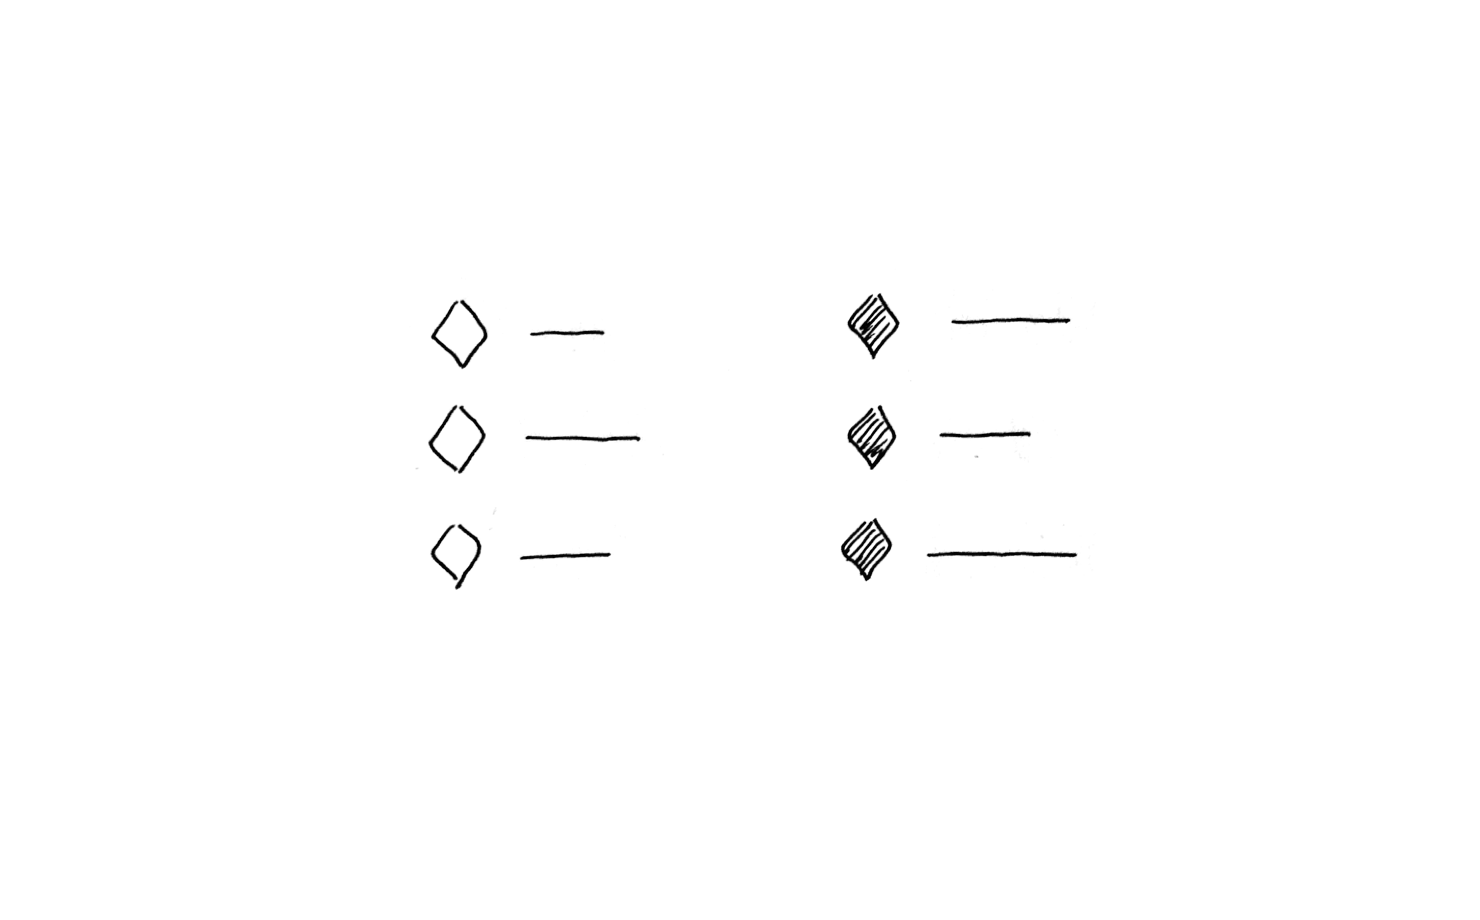
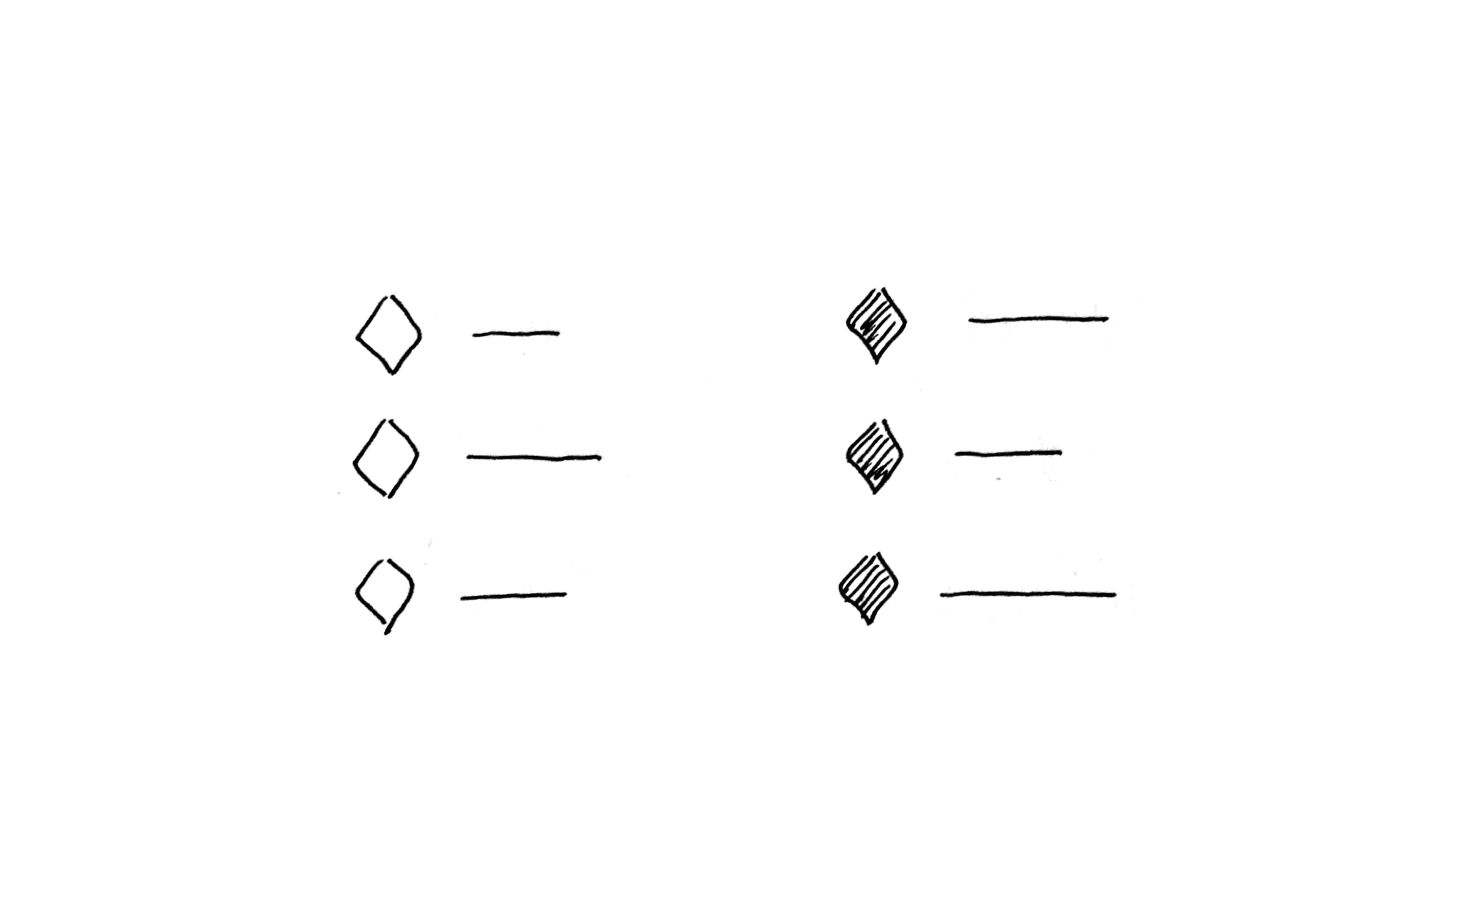
Update filter

diff --git a/docs/werteinheiten-und-akteure/filter.md b/docs/werteinheiten-und-akteure/filter.md
@@ -16,7 +16,7 @@ Ein Filter hat einen Namen.
 Ein Filter dient dem Nutzer dazu für ihn relevante Datenströme zu bekommen.
 
 ## Gestaltung
-![An image](./filter/filter.png)
+![An image](./filter/filter-anwendung.png)
 
 ## Skizze
 ![An image](./filter/filter-skizze.png)
